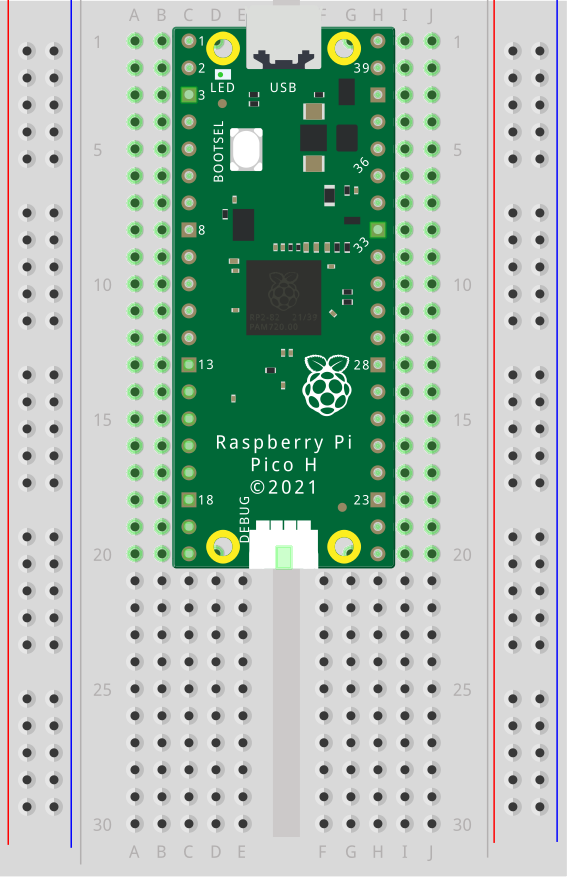
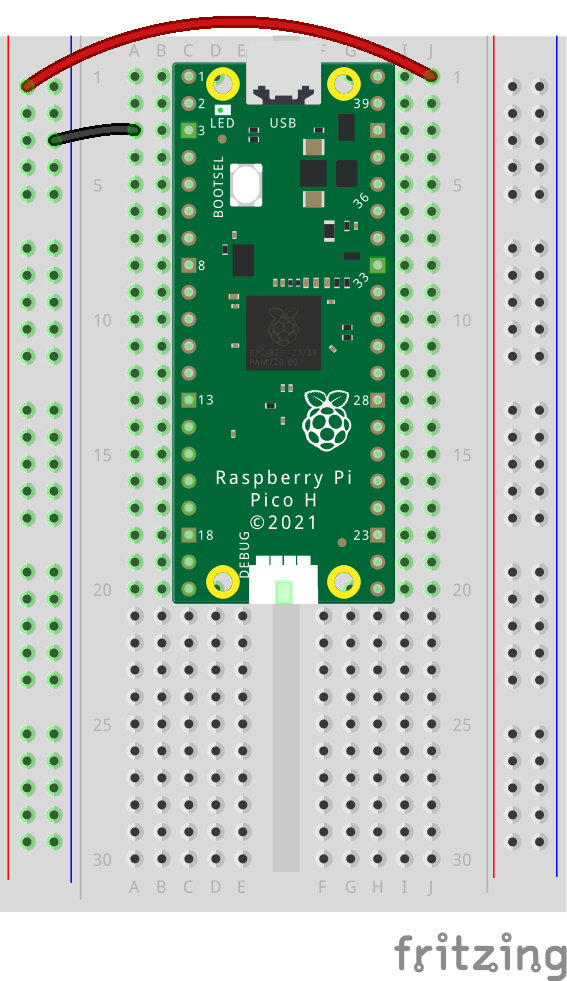
edits

diff --git a/en/step_3.md b/en/step_3.md
@@ -10,6 +10,13 @@ Set the Raspberry Pi Pico securely on a breadboard or workspace so you can easil
 --- /task ---
 
 --- task ---
+
+Connect the `VBUS` pin to the Power rail on the edge of your breadboard, and any `GND` pin to the ground rail on your breadboard. This will allow multiple devices to use the power supplied by your power supply. 
+![](images/touchless_faucet_0.png){:width="300px"}
+
+--- /task ---
+
+--- task ---
 Connect the `VCC` pin on the ultrasonic sensor to the 5V rail, and the `GND` pin to the `GND` rail on the breadboard.
 This gives the sensor power to operate.
 ![](images/touchless_faucet_1.png){:width="300px"}

diff --git a/en/step_1.md b/en/step_1.md
@@ -10,7 +10,7 @@ Build a **Touchless Water Faucet** that uses a Raspberry Pi Pico, the `picozero`
 - **External DC Supply (5–12 V)** — to power the water pump  
 - **USB Power (5 V)** — to power the Pico
 - **Breadboard and jumper wires** — for temporary circuit assembly
-- **2 resistors (e.g., 1 kΩ and 470 Ω)** — for the ECHO pin voltage divider  
+- **2 resistors (1 kΩ and 470 Ω)** — for the ECHO pin voltage divider  
 
 ### Optional Enhancements
 
